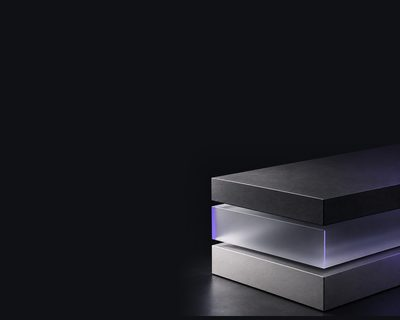
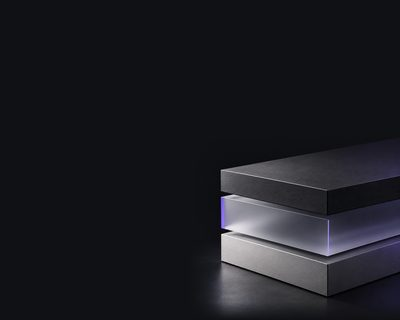
Startsida: hjalten och Tva vagar pa en gemensam oppningsyta (div.oppning med grafit --ink), sektioner, rubriker och ankare oforandrade. Bilden i samma storlek, tonad nedat mot grafiten; Tva vagar ovanpa bildlagret med 32 px toppluft (fran 96). Morka tokens inom ytan i bada teman, fokusring --indigo-

Changed region(s): [[0.48, 0.4688, 1.0, 1.0]]

diff --git a/styles.css b/styles.css
@@ -362,7 +362,7 @@
   .brodsmulor a[aria-current="page"] { color: var(--text); text-decoration: none; }
 
   /* HERO (always dark zone) */
-  .hero { position: relative; margin-top: calc(-1 * var(--header-h)); padding: calc(var(--header-h) + var(--space-section)) 0 64px; overflow: hidden; background: var(--ink); color: var(--ink-text); }
+  .hero { position: relative; margin-top: calc(-1 * var(--header-h)); padding: calc(var(--header-h) + var(--space-section)) 0 64px; z-index: 0; color: var(--ink-text); }
 
   /* Sajtens enda dekorativa motiv (fas 5 pass 2): ett mjukt ljussken i
      accentfargen hogst upp. Har pa startsidans hjalte, och som
@@ -375,6 +375,20 @@
   /* Textkolumnen 600 px (krav 560-620 vid 1440). */
   .hero-copy { max-width: 600px; }
 
+  /* Gemensam oppningsyta (2026-10-08): hjalten och Tva vagar ligger pa samma
+     grafitbakgrund (--ink). Bilden bor kvar i hjalten i samma storlek och tonas
+     nedat mot grafiten; Tva vagar ligger ovanpa bildlagret (z-index 1).
+     Ytan ar mork i bada teman, sa morka temats tokens satts har. Omslutaren
+     klipper i sidled (overflow: clip skapar ingen scrollbehallare). */
+  .oppning { position: relative; overflow: clip; background: var(--ink); color: var(--ink-text);
+    --text: var(--ink-text); --muted: var(--ink-muted); --muted-dim: #8E919C; --bg-card: #191B21;
+    --line: rgba(255,255,255,0.08); --line-strong: rgba(255,255,255,0.14); --line-ui: var(--ink-line-ui);
+    --glass: rgba(255,255,255,0.03); --light-indigo: #818CF8; }
+  :root[data-theme="light"] .oppning :focus-visible { outline-color: var(--indigo-pale); }
+  .oppning #vagar { position: relative; z-index: 1; padding-top: 32px; }
+  /* Korten: genomskinlig grafit (--bg-card vid 82 %), utan backdrop-filter. */
+  .oppning .svc-card { background: rgba(25,27,33,0.82); }
+
   /* Bildytan (AIM-01, 2026-10-07). Over 900 px: fast storlek 1104 x 736 (3:2).
      Bilden placeras sa att motivets framkant (38,4 % in = 424 px) alltid hamnar
      24 px till hoger om textkolumnen (--hero-t = textens hogerkant). Det som
@@ -385,7 +399,9 @@
   .hero { --hero-t: calc(max(var(--gutter), (100% - var(--max)) / 2 + var(--gutter)) + 600px); }
   .hero-media { position: absolute; inset: 0; z-index: 1; pointer-events: none; }
   .hero-media img { position: absolute; top: 0; left: max(calc(100% - 1104px), calc(var(--hero-t) + 24px - 424px)); width: 1104px; height: 736px; max-width: none;
-    -webkit-mask-image: linear-gradient(90deg, transparent 0, #000 22%); mask-image: linear-gradient(90deg, transparent 0, #000 22%); }
+    -webkit-mask-image: linear-gradient(90deg, transparent 0, #000 22%), linear-gradient(180deg, #000 70%, transparent 100%);
+    -webkit-mask-composite: source-in; mask-image: linear-gradient(90deg, transparent 0, #000 22%), linear-gradient(180deg, #000 70%, transparent 100%);
+    mask-composite: intersect; }
   .hero-media::after { content: ""; position: absolute; inset: 0;
     background: linear-gradient(90deg, rgba(16,17,20,0.92) 0, rgba(16,17,20,0.85) calc(var(--hero-t) - 40px), rgba(16,17,20,0) calc(var(--hero-t) + 24px)); }
   @media (max-width: 900px) {

diff --git a/index.html b/index.html
@@ -15,7 +15,7 @@
 <link rel="preload" as="font" type="font/woff2" crossorigin href="/assets/fonts/inter-latin.woff2" />
 <link rel="preload" as="font" type="font/woff2" crossorigin href="/assets/fonts/intertight-latin.woff2" />
 <link rel="stylesheet" href="/assets/fonts/fonts.css?v=169" />
-<link rel="stylesheet" href="styles.css?v=184" />
+<link rel="stylesheet" href="styles.css?v=185" />
 <noscript><style>.reveal{opacity:1;transform:none}</style></noscript>
 <meta name="author" content="AiM Studios" />
 <meta name="robots" content="index, follow" />
@@ -93,6 +93,8 @@
 <main id="main">
 
 <!-- 01 HERO -->
+<!-- 01 + 02: gemensam oppningsyta (hjalte och Tva vagar pa samma bildmiljo) -->
+<div class="oppning">
 <section class="hero" id="top">
   <div class="hero-fallback"></div>
   <div class="hero-media" aria-hidden="true">
@@ -138,6 +140,7 @@
     </div>
   </div>
 </section>
+</div>
 
 <!-- 03 UTVALDA PROJEKT -->
 <section id="case" class="section-pad sektion-ton">

diff --git a/integritetspolicy.html b/integritetspolicy.html
@@ -11,7 +11,7 @@
 <link rel="preload" as="font" type="font/woff2" crossorigin href="/assets/fonts/inter-latin.woff2" />
 <link rel="preload" as="font" type="font/woff2" crossorigin href="/assets/fonts/intertight-latin.woff2" />
 <link rel="stylesheet" href="/assets/fonts/fonts.css?v=169" />
-<link rel="stylesheet" href="/styles.css?v=184" />
+<link rel="stylesheet" href="/styles.css?v=185" />
 <script>(function(){var t='dark';try{t=localStorage.getItem('aim-theme')||'dark';}catch(e){}document.documentElement.setAttribute('data-theme',t);})();</script>
 <style>
   /* Sidspecifikt. Paletten kommer ur styles.css - inga egna fargvarden har.

diff --git a/404.html b/404.html
@@ -9,7 +9,7 @@
 <link rel="preload" as="font" type="font/woff2" crossorigin href="/assets/fonts/inter-latin.woff2" />
 <link rel="preload" as="font" type="font/woff2" crossorigin href="/assets/fonts/intertight-latin.woff2" />
 <link rel="stylesheet" href="/assets/fonts/fonts.css?v=169" />
-<link rel="stylesheet" href="/styles.css?v=184">
+<link rel="stylesheet" href="/styles.css?v=185">
 <noscript><style>.reveal{opacity:1;transform:none}</style></noscript>
 <style>
   .err-wrap { min-height: 100vh; display: grid; place-items: center; text-align: center; padding: 24px; }

diff --git a/ai-losningar/index.html b/ai-losningar/index.html
@@ -15,7 +15,7 @@
 <link rel="preload" as="font" type="font/woff2" crossorigin href="/assets/fonts/inter-latin.woff2" />
 <link rel="preload" as="font" type="font/woff2" crossorigin href="/assets/fonts/intertight-latin.woff2" />
 <link rel="stylesheet" href="/assets/fonts/fonts.css?v=169" />
-<link rel="stylesheet" href="/styles.css?v=184" />
+<link rel="stylesheet" href="/styles.css?v=185" />
 <noscript><style>.reveal{opacity:1;transform:none}</style></noscript>
 <meta name="author" content="AiM Studios" />
 <meta name="robots" content="index, follow" />

diff --git a/branding/index.html b/branding/index.html
@@ -15,7 +15,7 @@
 <link rel="preload" as="font" type="font/woff2" crossorigin href="/assets/fonts/inter-latin.woff2" />
 <link rel="preload" as="font" type="font/woff2" crossorigin href="/assets/fonts/intertight-latin.woff2" />
 <link rel="stylesheet" href="/assets/fonts/fonts.css?v=169" />
-<link rel="stylesheet" href="/styles.css?v=184" />
+<link rel="stylesheet" href="/styles.css?v=185" />
 <noscript><style>.reveal{opacity:1;transform:none}</style></noscript>
 <meta name="author" content="AiM Studios" />
 <meta name="robots" content="index, follow" />

diff --git a/case/aim-kvalitetssakring/index.html b/case/aim-kvalitetssakring/index.html
@@ -15,7 +15,7 @@
 <link rel="preload" as="font" type="font/woff2" crossorigin href="/assets/fonts/inter-latin.woff2" />
 <link rel="preload" as="font" type="font/woff2" crossorigin href="/assets/fonts/intertight-latin.woff2" />
 <link rel="stylesheet" href="/assets/fonts/fonts.css?v=169" />
-<link rel="stylesheet" href="/styles.css?v=184" />
+<link rel="stylesheet" href="/styles.css?v=185" />
 <noscript><style>.reveal{opacity:1;transform:none}</style></noscript>
 <meta name="author" content="AiM Studios" />
 <meta name="robots" content="index, follow" />

diff --git a/case/index.html b/case/index.html
@@ -15,7 +15,7 @@
 <link rel="preload" as="font" type="font/woff2" crossorigin href="/assets/fonts/inter-latin.woff2" />
 <link rel="preload" as="font" type="font/woff2" crossorigin href="/assets/fonts/intertight-latin.woff2" />
 <link rel="stylesheet" href="/assets/fonts/fonts.css?v=169" />
-<link rel="stylesheet" href="/styles.css?v=184" />
+<link rel="stylesheet" href="/styles.css?v=185" />
 <noscript><style>.reveal{opacity:1;transform:none}</style></noscript>
 <meta name="author" content="AiM Studios" />
 <meta name="robots" content="index, follow" />

diff --git a/konsult/index.html b/konsult/index.html
@@ -15,7 +15,7 @@
 <link rel="preload" as="font" type="font/woff2" crossorigin href="/assets/fonts/inter-latin.woff2" />
 <link rel="preload" as="font" type="font/woff2" crossorigin href="/assets/fonts/intertight-latin.woff2" />
 <link rel="stylesheet" href="/assets/fonts/fonts.css?v=169" />
-<link rel="stylesheet" href="/styles.css?v=184" />
+<link rel="stylesheet" href="/styles.css?v=185" />
 <noscript><style>.reveal{opacity:1;transform:none}</style></noscript>
 <meta name="author" content="AiM Studios" />
 <meta name="robots" content="index, follow" />

diff --git a/om-oss/index.html b/om-oss/index.html
@@ -15,7 +15,7 @@
 <link rel="preload" as="font" type="font/woff2" crossorigin href="/assets/fonts/inter-latin.woff2" />
 <link rel="preload" as="font" type="font/woff2" crossorigin href="/assets/fonts/intertight-latin.woff2" />
 <link rel="stylesheet" href="/assets/fonts/fonts.css?v=169" />
-<link rel="stylesheet" href="/styles.css?v=184" />
+<link rel="stylesheet" href="/styles.css?v=185" />
 <noscript><style>.reveal{opacity:1;transform:none}</style></noscript>
 <meta name="author" content="AiM Studios" />
 <meta name="robots" content="index, follow" />

diff --git a/seo/index.html b/seo/index.html
@@ -15,7 +15,7 @@
 <link rel="preload" as="font" type="font/woff2" crossorigin href="/assets/fonts/inter-latin.woff2" />
 <link rel="preload" as="font" type="font/woff2" crossorigin href="/assets/fonts/intertight-latin.woff2" />
 <link rel="stylesheet" href="/assets/fonts/fonts.css?v=169" />
-<link rel="stylesheet" href="/styles.css?v=184" />
+<link rel="stylesheet" href="/styles.css?v=185" />
 <noscript><style>.reveal{opacity:1;transform:none}</style></noscript>
 <meta name="author" content="AiM Studios" />
 <meta name="robots" content="index, follow" />

diff --git a/skotsel/index.html b/skotsel/index.html
@@ -15,7 +15,7 @@
 <link rel="preload" as="font" type="font/woff2" crossorigin href="/assets/fonts/inter-latin.woff2" />
 <link rel="preload" as="font" type="font/woff2" crossorigin href="/assets/fonts/intertight-latin.woff2" />
 <link rel="stylesheet" href="/assets/fonts/fonts.css?v=169" />
-<link rel="stylesheet" href="/styles.css?v=184" />
+<link rel="stylesheet" href="/styles.css?v=185" />
 <noscript><style>.reveal{opacity:1;transform:none}</style></noscript>
 <meta name="author" content="AiM Studios" />
 <meta name="robots" content="index, follow" />
